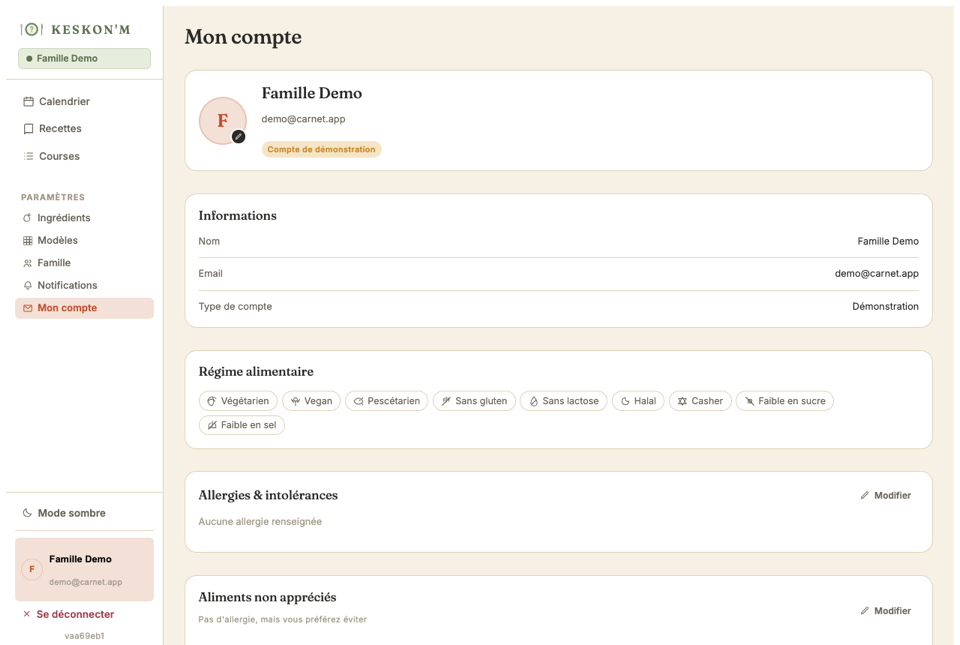
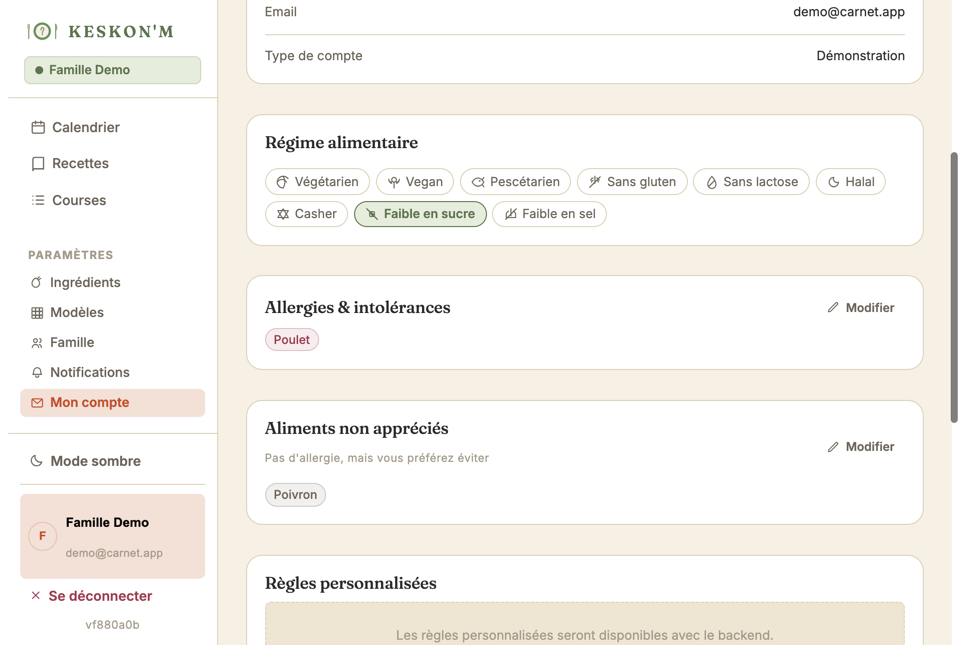
Auto-sync: 2026-08-08 10:48:25
12 files changed, 154 insertions(+), 7 deletions(-)

diff --git a/src/lib/authService.ts b/src/lib/authService.ts
@@ -97,7 +97,24 @@ export const AuthService = (() => {
     _listenerInitialized = true;
     const { data: { subscription } } = sb.auth.onAuthStateChange(
       async (_event: string, session: any) => {
-        if (!session) { notify(null); return; }
+        if (!session) {
+          // Le compte démo n'a jamais de session Supabase : l'événement initial
+          // "pas de session" de ce listener (déclenché à l'abonnement, en tâche de
+          // fond dès le montage de l'app, y compris après un simple rechargement de
+          // page) arrive de façon asynchrone et peut donc survenir *après* qu'une
+          // session démo a déjà été établie (au login) ou restaurée (au rechargement,
+          // via getSession() → localStorage) — sans cette garde, il écrase la session
+          // démo en cours quelques centaines de ms plus tard (repéré en vérifiant les
+          // captures d'écran de la visite guidée : le compte démo revenait
+          // systématiquement à l'écran de connexion peu après "Essayer", et aussi
+          // après un simple rechargement). On vérifie le localStorage plutôt qu'un
+          // état interne : c'est la seule source de vérité pour "suis-je le compte
+          // démo ?" qui reste valide même juste après un rechargement de page (avant
+          // que ce module n'ait lui-même revu passer la moindre notification).
+          if (loadFromStorage(STORAGE_KEYS.currentUser, null)?.id === "demo") return;
+          notify(null);
+          return;
+        }
         try {
           const profile = await ensureProfile(sb, session.user.id, session.user.user_metadata?.name || session.user.email?.split("@")[0] || "", session.user.email || "");
           notify(profileToAppUser(session, profile));
@@ -214,9 +231,17 @@ export const AuthService = (() => {
     updateProfile: async (userId: string, updates: Partial<AppUser>) => {
       // Mise à jour démo en localStorage
       if (userId === "demo") {
-        const current = loadFromStorage(STORAGE_KEYS.currentUser, null);
-        if (current) saveToStorage(STORAGE_KEYS.currentUser, { ...current, ...updates });
-        notify({ ...DEMO_USER, ...updates });
+        const current = loadFromStorage(STORAGE_KEYS.currentUser, null) || DEMO_USER;
+        const merged = { ...current, ...updates };
+        saveToStorage(STORAGE_KEYS.currentUser, merged);
+        // Fusionner sur `current` (pas sur `DEMO_USER`) : sinon chaque mise à jour de
+        // profil démo (régime, puis allergies, puis aliments non appréciés...) réinitialise
+        // silencieusement dans l'état React affiché tous les autres champs déjà renseignés
+        // lors d'un appel précédent — repéré en enchaînant régime → allergies → aliments non
+        // appréciés depuis Mon compte : chaque étape faisait disparaître la précédente de
+        // l'écran (mais restait correcte en localStorage, donc invisible après un simple
+        // rechargement, ce qui a retardé le diagnostic).
+        notify(merged);
         return;
       }
       const sb = await getSupabase();

diff --git a/src/App.tsx b/src/App.tsx
@@ -67,6 +67,26 @@ const App = () => {
   const [shoppingList, setShoppingList] = useState<any[]>(() => isDemo ? initialShoppingList : []);
   const [ingredients, setIngredients] = useState<any[]>(() => isDemo ? initialIngredients : []);
   const [weekTemplates, setWeekTemplates] = useState<any[]>(() => []);
+  // Les initialisateurs `useState` ci-dessus (isDemo ? ... : []) ne s'exécutent qu'au
+  // tout premier rendu du composant. Or au premier rendu, `currentUser` (donc `isDemo`)
+  // vaut encore `null`/`false` pour quiconque n'était pas déjà connecté avant ce
+  // chargement de page — cas normal d'une connexion démo via le bouton "Essayer" sur
+  // l'écran de connexion. Sans cet effet, `recipes`/`mealPlans`/`shoppingList`/
+  // `ingredients` restaient donc bloqués à `[]` pour toute la session malgré une
+  // connexion démo réussie : le compte démo semblait vide (calendrier, courses,
+  // ingrédients) alors que `isDemo` valait bien `true` juste après. Repéré en
+  // creusant pourquoi les captures d'écran de la visite guidée restaient vides même
+  // après correction du bug de reconnexion (voir authService.ts). La vitrine démo
+  // repart volontairement de zéro à chaque connexion (pas de fusion avec d'éventuelles
+  // données précédentes) — cohérent avec le reste du compte démo, pensé comme une
+  // vitrine rejouée à l'identique pour chaque visiteur plutôt qu'une session persistante.
+  useEffect(() => {
+    if (currentUser?.id !== "demo") return;
+    setRecipes(initialRecipes);
+    setMealPlans(initialMealPlans);
+    setShoppingList(initialShoppingList);
+    setIngredients(initialIngredients);
+  }, [currentUser?.id]);
   // Allergies de tous les membres de la famille active, { [memberId]: [{type, id}] } —
   // sert au contrôle ingrédients×allergies sur la carte de repas du planning.
   const [realFamilyAllergies, setRealFamilyAllergies] = useState<Record<string, any[]>>({});

diff --git a/src/lib/storage.ts b/src/lib/storage.ts
@@ -53,7 +53,14 @@ export const generateInviteCode = () =>
 // MOCK DATA — jeu de données local pour le compte démo
 // ============================================================
 
-export const initialRecipes = [
+// Compte démo : traitées comme le catalogue global (mêmes critères que la colonne
+// `scope` côté Supabase) — nécessaire pour que `familyRecipes` (App.tsx, filtre par
+// scope/propriétaire/partage) les laisse passer. Sans `scope: "global"` explicite ici,
+// ce filtre les excluait toutes : les repas du planning démo affichaient "+ Ajouter"
+// au lieu du nom de la recette malgré un `recipeIds` non vide, la liste de courses
+// générée restait vide, etc. — silencieux car "Base commune" (RecipesView) les affiche
+// via une prop distincte (`globalRecipes`, non filtrée) qui masquait le problème.
+const rawInitialRecipes = [
   // ---- Plats principaux ----
   {
     id: "1", name: "Pâtes carbonara", category: "main", portions: 4,
@@ -583,6 +590,8 @@ export const initialRecipes = [
     tags: ["Anti-gaspillage", "Goûter", "Enfants"],
   },
 ];
+
+export const initialRecipes = rawInitialRecipes.map((r) => ({ ...r, scope: "global" }));
 
 export const initialMealPlans = [
   { id: "1", date: new Date().toISOString().split("T")[0], recipeIds: ["1"], type: "lunch" },

diff --git a/src/components/onboarding.tsx b/src/components/onboarding.tsx
@@ -23,14 +23,14 @@ const STEPS = [
     id: "calendar",
     eyebrow: "Le coeur de la maison",
     title: "Le Calendrier",
-    text: "Tu poses les repas de la semaine, tu dis qui sera là ce soir-là, et toute la famille voit le menu d'un coup d'oeil. Plusieurs plats au même repas ? Le bouton « Plan de prépa » te dit quoi préparer d'abord et quoi cuisiner en même temps.",
+    text: "Tu remplis chaque case avec une ou plusieurs recettes et tu dis qui sera là — toute la famille voit le menu d'un coup d'oeil, et une alerte apparaît si quelqu'un est allergique à un ingrédient prévu. Plusieurs plats au même repas ? Le bouton « Plan de prépa » te dit quoi préparer d'abord et quoi cuisiner en même temps. Un soir au resto ? Note le nom du lieu directement sur la case. Et pour réorganiser la semaine, glisse-dépose un repas d'une case à l'autre.",
     image: calendarImg,
   },
   {
     id: "recipes",
     eyebrow: "Le tiroir à idées",
     title: "Les Recettes",
-    text: "Toutes vos recettes rangées au même endroit, plus une bonne cinquantaine de classiques déjà prêts si l'inspiration manque.",
+    text: "Toutes vos recettes rangées au même endroit, plus d'une centaine de classiques déjà prêts si l'inspiration manque.",
     image: recipesImg,
   },
   {

diff --git a/CLAUDE.md b/CLAUDE.md
@@ -315,6 +315,64 @@ plus simple et plus sûr à maintenir que des upserts fins.
     (`RecipeRow`) doit rester désactivé pour ces statuts (choisir un plat n'a pas
     de sens hors "normal") — la désactivation du bloc convives a été retirée sans
     toucher à celle des recettes.
+17. **Connexion démo qui se déconnecte toute seule ~1s après "Essayer" (et après tout
+    rechargement de page)** (`src/lib/authService.ts`, `initSupabaseListener`) —
+    découvert en essayant de scripter une connexion démo pour régénérer les captures
+    d'écran de la visite guidée. `AuthService.onAuthChange` initialise
+    inconditionnellement un abonnement à `sb.auth.onAuthStateChange`, y compris pour un
+    visiteur qui va se connecter en démo — ce listener Supabase notifie une fois, de
+    façon asynchrone, avec `session = null` dès l'abonnement (comportement standard de
+    supabase-js). Cette notification arrivait *après* une connexion démo déjà réussie
+    (ou déjà restaurée depuis le `localStorage` au chargement) et appelait
+    `notify(null)`, ramenant silencieusement l'utilisateur à l'écran de connexion
+    quelques centaines de ms plus tard — reproductible à 100% en observant l'état de la
+    page à intervalles de 400ms après le clic sur "Essayer". Corrigé en ignorant cette
+    notification "pas de session" précise quand `localStorage["mealPlanner_
+    currentUser"].id === "demo"` (seule source de vérité qui reste valide même juste
+    après un rechargement, avant que ce module n'ait lui-même revu la moindre
+    notification) — le compte démo n'a jamais de session Supabase, cet événement ne le
+    concerne donc jamais.
+18. **Calendrier/courses/ingrédients du compte démo vides malgré une connexion réussie**
+    (`src/App.tsx`) — découvert juste après avoir corrigé le bug précédent : la
+    connexion démo restait stable, mais `recipes`/`mealPlans`/`shoppingList`/
+    `ingredients` (initialisés via `useState(() => isDemo ? initialX : [])`) restaient
+    bloqués à `[]` pour toute la session. Cause : ces initialisateurs ne s'exécutent
+    qu'au tout premier rendu du composant, où `currentUser` (donc `isDemo`) vaut encore
+    `null`/`false` pour quiconque n'était pas déjà connecté avant ce chargement de page
+    — le cas normal d'une connexion via le bouton "Essayer" sur l'écran de connexion.
+    Corrigé par un effet dédié qui (re)seed ces quatre tableaux dès que `currentUser?.id`
+    devient `"demo"`, quel que soit l'état des initialisateurs `useState`. Combiné à un
+    second bug de schéma (point suivant), c'est ce qui faisait que **toutes** les
+    captures d'écran précédentes de la visite guidée montraient des écrans vides — pas
+    un défaut de mise en scène, le compte démo ne pouvait littéralement pas afficher son
+    propre jeu de données.
+19. **`initialRecipes` (jeu de données du compte démo, `src/lib/storage.ts`) sans champ
+    `scope`** — repéré en constatant qu'un repas du planning démo avec un `recipeIds`
+    non vide affichait quand même "+ Ajouter" au lieu du nom de la recette (confirmé par
+    inspection directe du DOM : la case portait bien la bordure d'accent et la poignée
+    de glisser d'un créneau rempli, seul le nom du plat manquait). Cause : `familyRecipes`
+    (`src/App.tsx`, filtre introduit pour le partage de recettes multi-famille) exige
+    `scope === "global"` ou `createdBy`/`sharedWith`/`familyId` correspondant à
+    l'utilisateur — champs qu'`initialRecipes` n'a jamais eus. Toutes les recettes démo
+    étaient donc invisibles partout où `familyRecipes` est utilisé (cartes du planning,
+    génération de la liste de courses...), sans erreur ni écran vide évident — seul
+    "Base commune" (`RecipesView`, alimenté par la prop distincte `globalRecipes`, non
+    filtrée) fonctionnait, ce qui a longtemps masqué le problème. Corrigé en taguant
+    `initialRecipes` avec `scope: "global"` à l'export (`rawInitialRecipes.map(r => ({
+    ...r, scope: "global" }))`) — cohérent avec la façon dont ces recettes sont déjà
+    traitées ailleurs (prop `globalRecipes: isDemo ? initialRecipes : ...`).
+20. **Mise à jour du profil démo qui efface les champs précédemment renseignés de
+    l'écran** (`AuthService.updateProfile`, `src/lib/authService.ts`) — repéré en
+    enchaînant régime → allergies → aliments non appréciés depuis "Mon compte" du
+    compte démo pour peupler les captures d'écran : chaque étape faisait disparaître la
+    précédente de l'écran (le régime coché disparaissait après avoir renseigné une
+    allergie, l'allergie disparaissait après avoir renseigné un aliment non apprécié...).
+    Cause : la branche démo notifiait les abonnés avec `{ ...DEMO_USER, ...updates }`
+    (le profil démo *par défaut*, vierge) au lieu de `{ ...current, ...updates }` (le
+    profil réellement affiché jusque-là) — seul le `localStorage` accumulait
+    correctement les champs (via une ligne distincte, déjà correcte), ce qui rendait le
+    bug invisible après un rechargement complet et a retardé le diagnostic. Corrigé en
+    alignant `notify(...)` sur la même base fusionnée que la ligne `saveToStorage`.
 
 ## Bugs connus, non corrigés
 
@@ -985,6 +1043,41 @@ plus simple et plus sûr à maintenir que des upserts fins.
     avertissements pré-existants). Vérifié en direct avec le compte de test réel : onglet
     "Base commune" affiche bien 105 recettes (55 + 50), recherche fonctionnelle sur les
     nouvelles recettes.
+- **Captures d'écran de la visite guidée rafraîchies + texte du Calendrier plus précis**
+  (demande explicite : « mets à jour la présentation initiale avec des captures d'écran
+  mises à jour, il faut qu'il y ait une présentation plus précise du planning ») — les 7
+  captures dans `src/assets/onboarding/` dataient du 31 juillet et montraient des écrans
+  quasi vides (calendrier sans repas, courses/modèles vides, aucune allergie/régime) alors
+  que l'app avait beaucoup évolué depuis (glisser-déposer, alerte allergie, plan de prépa,
+  lieu du restaurant, photos de recette, régime/aliments non appréciés...). Regénérées via
+  compte démo + scripts jetables hors repo (même convention que d'habitude), avec cette
+  fois un jeu de données démo volontairement enrichi avant capture (allergie Poulet,
+  aliment non apprécié Poivron, régime Faible en sucre, un second membre de famille sans
+  compte, une semaine avec un repas simple, un repas à 2 recettes pour montrer le bouton
+  Plan de prépa, un repas Restaurant avec nom de lieu, et un repas contenant l'allergène
+  pour montrer le bouton Allergie) plutôt que de re-capturer les mêmes écrans vides.
+  `onboarding.tsx` : texte de l'étape "Le Calendrier" réécrit pour couvrir ces
+  fonctionnalités (alerte allergie, plan de prépa, lieu du restaurant, glisser-déposer),
+  et l'étape "Les Recettes" corrigée (« une bonne cinquantaine » → « plus d'une centaine »,
+  desormais exact pour un compte réel — 105 recettes globales).
+  - **Quatre bugs réels, jusque-là inaperçus, découverts et corrigés en essayant de
+    peupler le compte démo pour ces captures** (aucun rapport avec Supabase/RLS — tous
+    dans le chemin 100% local du compte démo, `src/lib/authService.ts`/`src/lib/
+    storage.ts`/`src/App.tsx`) — voir le détail dans "Bugs découverts et corrigés"
+    ci-dessus (points 17-20). En résumé : la connexion démo se déconnectait toute seule
+    ~1s après "Essayer" (et aussi après un simple rechargement de page) ; le calendrier/
+    les courses/les ingrédients du compte démo restaient vides malgré une connexion
+    réussie ; les recettes démo ne s'affichaient nulle part dans le planning (nom de
+    plat manquant malgré un créneau non vide) ; et chaque modification de profil démo
+    (régime, puis allergies, puis aliments non appréciés) effaçait les précédentes de
+    l'écran. Les quatre combinés expliquent pourquoi les captures précédentes montraient
+    des écrans vides : ce n'était
+    pas qu'un manque de mise en scène, le compte démo ne pouvait tout simplement pas
+    afficher son propre jeu de données de démonstration.
+  - Vérifié : `npm run build`, `npm run typecheck` (parité, aucune régression au-delà
+    du style pré-existant), `npm run test:rls` (aucune table concernée, resté vert),
+    tour rejouée en conditions réelles (compte démo, scripts jetables) avec les 7
+    nouvelles images et le nouveau texte.
 
 Configurés dans `.claude/settings.local.json` (non versionné) :
 
